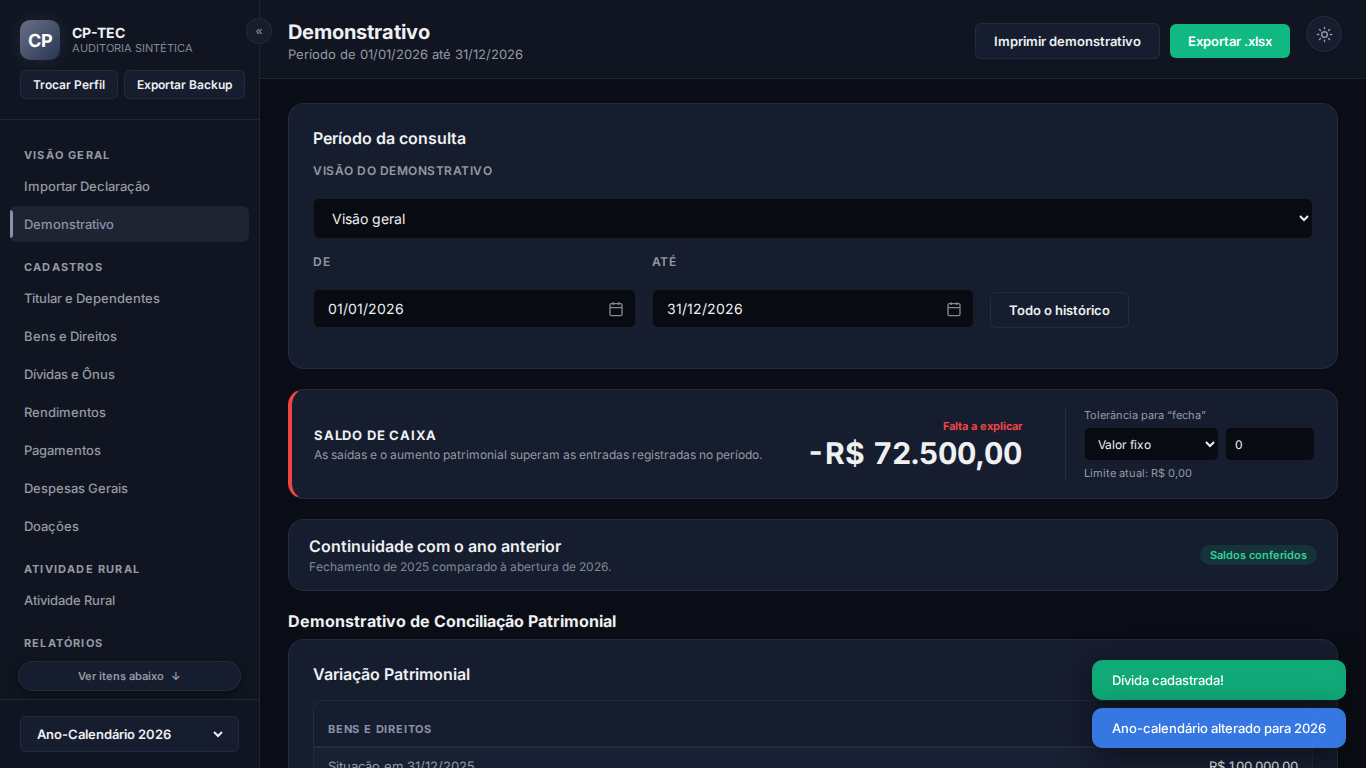
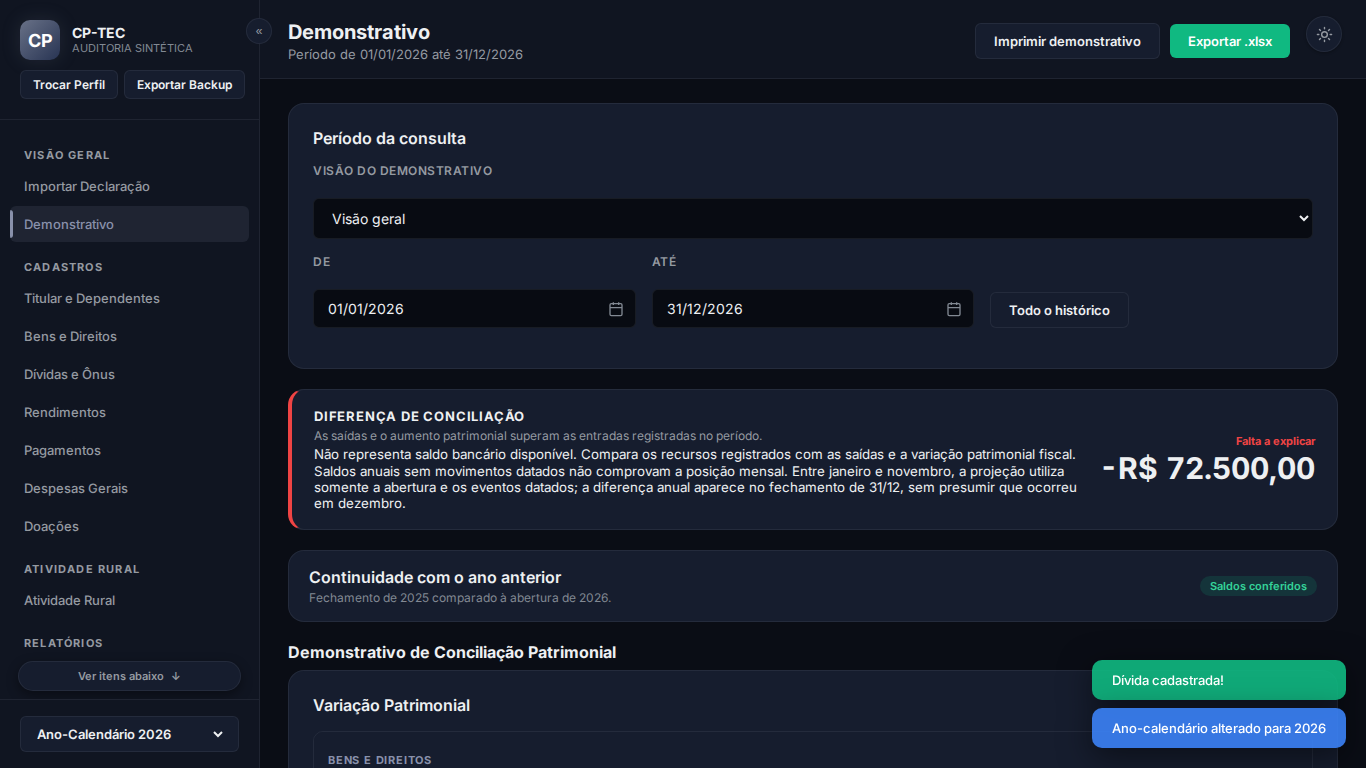
Entrega: registra verificacao das correcoes e nova visao de otimizacoes

Changed region(s): [[0.1845, 0.5312, 0.9839, 1.0], [0.8917, 0.9688, 0.9531, 1.0]]

diff --git a/AUDITORIA/2026-09-05/auditar-uso.py b/AUDITORIA/2026-09-05/auditar-uso.py
@@ -230,10 +230,10 @@ with sync_playwright() as p:
         ano(2026)
         navegar('Renda Variável','Incluir mês (Comuns)')
         page.get_by_role('button',name=re.compile('Incluir mês \\(Comuns\\)')).click()
-        selecionar('Mês','3'); preencher('Resultado líquido comuns','1000,00'); preencher('Imposto pago (DARF), se diferente do apurado','150,00'); salvar()
+        selecionar('Mês','3'); preencher('Resultado líquido comuns','1000,00'); preencher('Imposto efetivamente pago (DARF)','150,00'); page.get_by_label('Confirmo o pagamento deste DARF').check(); salvar()
         esperar('s.rendaVariavelMensalManual.some(x=>Number(x.mes)===3)')
         fechar(); page.get_by_role('button',name=re.compile('Incluir mês \\(FII\\)')).click()
-        selecionar('Mês','4'); preencher('Resultado líquido do mês','500,00'); preencher('Imposto pago (DARF), se diferente do apurado','100,00'); salvar()
+        selecionar('Mês','4'); preencher('Resultado líquido do mês','500,00'); preencher('Imposto efetivamente pago (DARF)','100,00'); page.get_by_label('Confirmo o pagamento deste DARF').check(); salvar()
         esperar('s.fiiFiagroMensalManual.some(x=>Number(x.mes)===4)')
         assert estado()['anoCalendario']==2026
     caso('Renda variável: meses comuns e FII com DARF informado',rv_cadastros)

diff --git a/AUDITORIA/2026-09-05/OTIMIZACOES-PROPOSTAS.md b/AUDITORIA/2026-09-05/OTIMIZACOES-PROPOSTAS.md
@@ -1,13 +1,21 @@
 # Propostas para acompanhamento periódico
 
-Documento de consultoria técnica, não alteração automática do produto. Elaborado a partir do inventário independente, dos testes de cadastro e da auditoria matemática. As propostas do Demonstrativo dependem da revisão do relatório prévio e da autorização do responsável. Não presume instruções futuras da DIRPF 2027.
+Revisão de 05/09/2026, após estudo integral de `deep-research-report (2).md` e autorização das correções D01–D12. Documento de consultoria técnica, não autorização para implementar automaticamente as propostas abaixo. A versão anterior permanece no histórico Git. Não presume instruções futuras da DIRPF 2027.
+
+## Nova avaliação
+
+O aplicativo ganhou uma base melhor de conciliação patrimonial: corrigiu retenções, integração de RV/FII, duplicidades reproduzidas, complementos rurais, datas de doações e precisão dos saldos anuais. A identificação titular/dependente agora está na primeira coluna de Bens, com filtro e totais do recorte. A caixa principal passou a se chamar Diferença de conciliação, sem tolerância configurável para esconder desvios. Isso **não transforma a aplicação em um razão bancário conciliado**.
+
+A próxima prioridade não é acrescentar mais índices. É registrar a identidade e a cronologia dos fatos que sustentam os índices. O estudo reforçou três visões distintas: patrimônio fiscal, fluxo financeiro conciliado e patrimônio econômico opcional. Hoje a primeira existe e a segunda é parcialmente inferida das fichas; a terceira não deve ser misturada à DIRPF.
+
+Antes de usar a base antiga após essas mudanças: faça backup; confira o 13º informado como líquido, os pagamentos de impostos, os meses rurais antes usados como substituição implícita, as doações da DAA sem data e as vendas sem vínculo. O código não reescreveu silenciosamente os dados reais. O reconhecimento financeiro mudou e pode alterar os indicadores de períodos já cadastrados.
 
 ## Prioridade 1 — tornar o acompanhamento verificável
 
-1. **Separar três números:** patrimônio líquido (bens menos dívidas), disponibilidade financeira conciliada (contas e numerário) e diferença não explicada entre origens e aplicações. Hoje o chamado saldo de caixa é um residual patrimonial; não se deve tratá-lo como dinheiro disponível. Critério de aceite: a mesma família pode ter banco de R$110 mil e diferença de conciliação zero, sem mensagens contraditórias.
+1. **Completar a separação das três visões:** o residual principal já foi renomeado, mas ainda falta uma disponibilidade financeira calculada por contas/extratos e, opcionalmente, patrimônio econômico a mercado. Créditos e investimentos não são automaticamente caixa disponível. Critério de aceite: banco de R$ 110 mil e diferença de conciliação zero coexistem sem mensagens contraditórias; indicadores fiscais não recebem valorização de mercado sem fundamento.
 2. **Uma operação, várias representações fiscais:** venda de bem, recebimentos, custo baixado, ganho, imposto e rendimento exclusivo devem compartilhar identidade, evitando digitação e soma duplicadas. Critério: importar GCAP após cadastrar uma venda não altera o resultado econômico da operação já reconhecida.
 3. **Conciliação mensal por conta:** saldo inicial + entradas − saídas = saldo do extrato. Transferências próprias não são renda nem despesa; titular/dependente são contrapartes identificadas. Critério: cada diferença tem lista de movimentos que a explica e itens ainda pendentes.
-4. **Precisão da data:** distinguir aquisição, fato econômico, pagamento/recebimento, registro no aplicativo e competência fiscal. Declaração anual sem dia conhecido deve permanecer anual; não distribuir artificialmente sua variação por meses. Critério: somar períodos disjuntos não multiplica uma foto anual.
+4. **Completar a precisão das datas:** a repetição da foto anual nos meses foi corrigida; doação na DAA já separa ano-base e pagamento. Faltam datas financeiras próprias para os demais tributos, parcelas e recebimentos. O Carnê-leão legado está associado à data do rendimento e RV à competência mensal: isso não prova o dia bancário. Critério: consultas disjuntas somam o total sem duplicação e distinguem realizado, projetado e desconhecido.
 
 ## Prioridade 2 — rotina mensal e fechamento anual
 
@@ -23,12 +31,18 @@ Documento de consultoria técnica, não alteração automática do produto. Elab
 - Migrações de dados com prévia: detectar movimentos antigos armazenados fora do ano da data, propor destinos e vínculos e manter cópia anterior. Não corrigir ambiguidades por semelhança de descrição.
 - Revisão de proveniência: diferenciar valor declarado, enriquecimento local e decisão tomada numa retificadora. Mostrar diferenças na tela e no relatório.
 - Modais e tabelas com teste automatizado de teclado, largura reduzida, rolagem e impressão. Para E2E, congelar o código durante a execução: atualização automática de desenvolvimento pode desmontar uma janela e invalidar o teste.
-- Separar as regras de integração fiscal dos componentes visuais, com testes sintéticos de não duplicação e invariantes contábeis. A suíte do Demonstrativo contém falhas esperadas: sua cor verde não é aprovação do motor.
+- Separar as regras de integração fiscal dos componentes visuais, com testes sintéticos de não duplicação e invariantes. Os 11 casos antes marcados como falhas esperadas foram convertidos em regressões normais; D12 tem cinco cenários próprios. Manter os oráculos aritméticos além dos goldens: atualizar uma referência não prova a correção do motor.
 - Oferecer remoção explícita do ajuste mensal de RV para restaurar o valor importado. Hoje o usuário pode sobrescrever o mês, mas não desfazer a sobreposição pela interface.
 - Refinar paginação dos relatórios impressos para aproveitar melhor a folha, mantendo os valores e todos os cabeçalhos legíveis. O corte lateral foi corrigido; aproveitamento de espaço continua sendo uma melhoria de apresentação.
 
 ## Ordem recomendada de implementação futura
 
-Primeiro aprovar conceitos e migração do Demonstrativo; depois corrigir uma divergência reproduzida por vez; em seguida introduzir contas/conciliação e parcelas; por último automatizar checklist, anexos e fechamento. Fazer apenas melhorias visuais não torna confiável um indicador com origem econômica incompleta.
+1. Conferir a base antiga com backup e lista de impactos das correções já feitas.
+2. Criar identidade de operação e conciliação explícita entre fichas: a sobreposição agregada atual é limitada e exige revisão quando resumos divergem ou pertencem a operações distintas.
+3. Introduzir contas, extratos, transferências internas pareadas e cronograma de parcelas; separar custo, principal, rendimento, taxas e imposto pago.
+4. Implantar fechamento mensal versionado, pendências documentais e anexos.
+5. Ampliar regimes específicos conforme os perfis atendidos: rural, MEI/PJ relacionada, exterior e cripto. Regras novas devem ser pesquisadas oficialmente por ano de vigência antes de codificar alíquotas ou obrigações.
+
+Não recomendo preencher dados faltantes com zero nem considerar uma conciliação fiscal fechada como prova da origem individual de todos os créditos. Para acompanhamento satisfatório, o fechamento mensal deve trazer saldo do extrato, operações explicadas, documentos pendentes e revisão de titularidade, com aprovação humana registrada.
 
 As fontes e os exemplos numéricos das recomendações fiscais estão no relatório RELATORIO-DEMONSTRATIVO.md. Este documento apresenta recomendações de arquitetura e operação; não promete certificação tributária nem testes de todas as versões do aplicativo desktop.

diff --git a/AUDITORIA/2026-09-05/ENTREGA-REVISAO.md b/AUDITORIA/2026-09-05/ENTREGA-REVISAO.md
@@ -1,0 +1,50 @@
+# Entrega da revisão após estudo
+
+05/09/2026. Código-fonte do CP-TEC; alterações locais, sem publicar em serviço externo e sem modificar as bases reais do usuário. A versão anterior da auditoria continua preservada no Git e nos relatórios históricos.
+
+## Ordem solicitada e resultado
+
+1. O estudo externo `D:\Download DATA\deep-research-report (2).md` foi lido integralmente antes das alterações. Diretrizes e escopo registrados em REVISAO-ESTUDO.md. Ele orientou a separação entre patrimônio fiscal, recursos financeiros e diferença de conciliação; não foi interpretado como autorização para construir todos os módulos sugeridos.
+2. As três imagens foram examinadas. Item foi substituído por Titularidade, conforme a instrução posterior do usuário; número original permanece nos dados/exportação. Filtro geral/titular/dependente individual, totais do recorte e alinhamento central de titularidade/grupo/código. Na edição de Bens, campos destacados recolhidos em Dados do Bem/Mostrar mais; continuam disponíveis no topo do novo cadastro. A caixa principal foi mantida por sua utilidade de conferência, renomeada Diferença de conciliação e esclarecida como residual, não banco disponível. Removida a tolerância ajustável.
+3. Os achados D01–D12 foram tratados sequencialmente, com commits, testes e saídas de diagnóstico. Complementos de integração preservam perdas, segregam pessoas e separam DARF confirmado de imposto apenas apurado.
+4. OTIMIZACOES-PROPOSTAS.md foi revisado após as correções. As propostas futuras não foram implementadas automaticamente; a próxima etapa depende do OK do usuário.
+
+## Evidência por achado
+
+| Achado | Resultado verificado |
+|---|---|
+| D01 | 10.000 de PF/exterior menos 2.000 de Carnê-leão informado como pago = 8.000. |
+| D02 | RRA tributável 20.000 menos IRRF 3.000 = 17.000. |
+| D03 | 13º já líquido 8.000 permanece 8.000; retenção informativa não é descontada de novo. |
+| D04 | Resultado RV mensal positivo entra sem exigir redigitação; resumo da mesma pessoa evita sobreposição. |
+| D05 | Perda FII de 4.000 reduz recursos em 4.000; modalidade integrada sem alterar sua apuração fiscal própria. |
+| D06 | Doação de dezembro não reduz janeiro; total anual sem data não é repetido em cada mês. |
+| D07 | Receita rural 10.000 menos despesa importada 2.000 e complemento 100 = 7.900. Substituição de mês somente explícita. |
+| D08 | Vendas distintas com mesmo preço/data são preservadas; supressão exige vínculo, coincidências ficam para revisão. |
+| D09 | Diferença anual sem data não é repetida em meses disjuntos. Projeção intermediária usa abertura e eventos datados, com aviso sobre a limitação. |
+| D10 | Venda 15.000/custo 10.000/ganho 5.000 em operação e exclusivo resulta em 15.000, não 20.000. Sobreposição deduzida em linha visível. |
+| D11 | DAA fiscal 2025 paga em 2026 permanece na ficha fiscal original e afeta o período financeiro de 2026. |
+| D12 | Base inicial zero mostra sem base percentual; variação monetária permanece. |
+
+Detalhes: CORRECOES-DEMONSTRATIVO.md e INTEGRACAO-RESULTADOS.md. As 11 falhas esperadas da auditoria foram convertidas em testes normais; não são falhas ocultas sob suíte verde. D12 possui cinco casos matemáticos próprios.
+
+## Verificação
+
+- Suíte completa: 71 arquivos e 1.042 testes aprovados, sem falhas esperadas (`revisao-suite-final.txt`).
+- Golden: memória aritmética das fichas sintéticas conferida antes de regenerar a referência. Quatro testes aprovados na execução normal (`REVISAO-GOLDEN.md`, `golden-oraculo-depois.txt`).
+- Navegador: filtro/totais/alinhamento, cadastro e edição de Bens, residual, DARF sem preenchimento presumido e DAA com ano fiscal preservado, sem erros JavaScript (`revisao-navegador-final-reteste.txt`).
+- Regressão de uso: 16 fluxos aprovados, incluindo troca de ano, movimentações, cadastros, edição/exclusão, rural, RV, arraste de colunas e exportações, sem erros JavaScript (`revisao-uso-final.txt`).
+- Build de produção aprovado em diretório temporário, preservando o pacote desktop existente (`revisao-build-final.txt`).
+
+Os testes usam fixtures e perfis descartáveis. Falhas anteriores, erros de fixture e indisponibilidade do servidor foram preservados e classificados, não convertidos em alegações de resultado positivo. Não foi testado o executável nativo Windows nem a base privada real.
+
+## Limites que exigem atenção operacional
+
+- Diferença de conciliação não é caixa bancário disponível nem prova individual da origem dos créditos. Não use o número isoladamente para declarar ausência de risco fiscal.
+- A integração com resumos fiscais é agregada; não substitui identidade e conciliação de cada operação. Resumos divergentes, taxas, parcelas, impostos em fichas diferentes e titularidade incompleta precisam de conferência. O aplicativo não deve ser tomado como apuração fiscal integral para todos os regimes.
+- Carnê-leão legado compartilha a data do rendimento; RV conserva competência mensal. Cronologia bancária diária e quitação do mesmo tributo lançada em mais de uma ficha precisam de vínculos próprios. O mesmo DARF não deve ser duplicado em Despesas.
+- Doação diretamente na DAA sem data de pagamento permanece pendente para fins financeiros. Cadastro novo adota ano-base anterior ao pagamento; documentos antigos/em atraso requerem conferência do ano-base original.
+- Fotos anuais não demonstram saldos mensais. O saldo de 31/12 é preservado sem afirmar que sua diferença ocorreu em dezembro.
+- Meses rurais anteriormente usados como substituição implícita devem ser revistos, usando a opção explícita quando essa era a intenção. Nenhuma migração silenciosa foi executada sobre a base real.
+
+Recomendação imediata: fazer backup antes de revisar períodos antigos, conferir as mudanças de reconhecimento financeiro e manter as propostas futuras aguardando aprovação.

diff --git a/AUDITORIA/2026-09-05/RELATORIO-DEMONSTRATIVO.md b/AUDITORIA/2026-09-05/RELATORIO-DEMONSTRATIVO.md
@@ -2,6 +2,8 @@
 
 Data: 05/09/2026. Estado: **RELATÓRIO PRÉVIO; CORREÇÕES DO MOTOR NÃO APLICADAS**.
 
+**Nota posterior:** este é o relatório histórico anterior à autorização. O usuário autorizou a correção dos achados; a execução posterior está em [CORRECOES-DEMONSTRATIVO.md](CORRECOES-DEMONSTRATIVO.md), com complementos em [INTEGRACAO-RESULTADOS.md](INTEGRACAO-RESULTADOS.md). Os valores “Atual” abaixo são os do diagnóstico original, não os da versão corrigida.
+
 O Demonstrativo funciona como conciliação de origens e aplicações patrimoniais. Não é, atualmente, um livro de movimentação bancária. A aritmética básica fecha nos cenários de salário líquido, compra financiada, venda com perda e continuidade anual. Encontramos 11 divergências reproduzidas em testes do motor e um achado adicional no indicador percentual (D12), descritos abaixo. Nenhuma fórmula de produção foi alterada por esta auditoria.
 
 ## Escopo e evidência

diff --git a/AUDITORIA/2026-09-05/CONCLUSAO.md b/AUDITORIA/2026-09-05/CONCLUSAO.md
@@ -1,5 +1,7 @@
 # Entrega das alterações e auditoria
 
+Nota posterior: este documento registra a entrega anterior à autorização das correções do Demonstrativo. A revisão seguinte está em [ENTREGA-REVISAO.md](ENTREGA-REVISAO.md); os limites e estados históricos abaixo não substituem essa atualização.
+
 Data: 05/09/2026. Aplicativo CP-TEC. Escopo executado no código-fonte e no navegador local; nenhuma base real foi usada para testes de escrita. O fluxo adotado é base patrimonial do ano-calendário2025, fatos datados em2026 e relatório preparatório para a declaração de2027.
 
 ## Resultado por requisito
